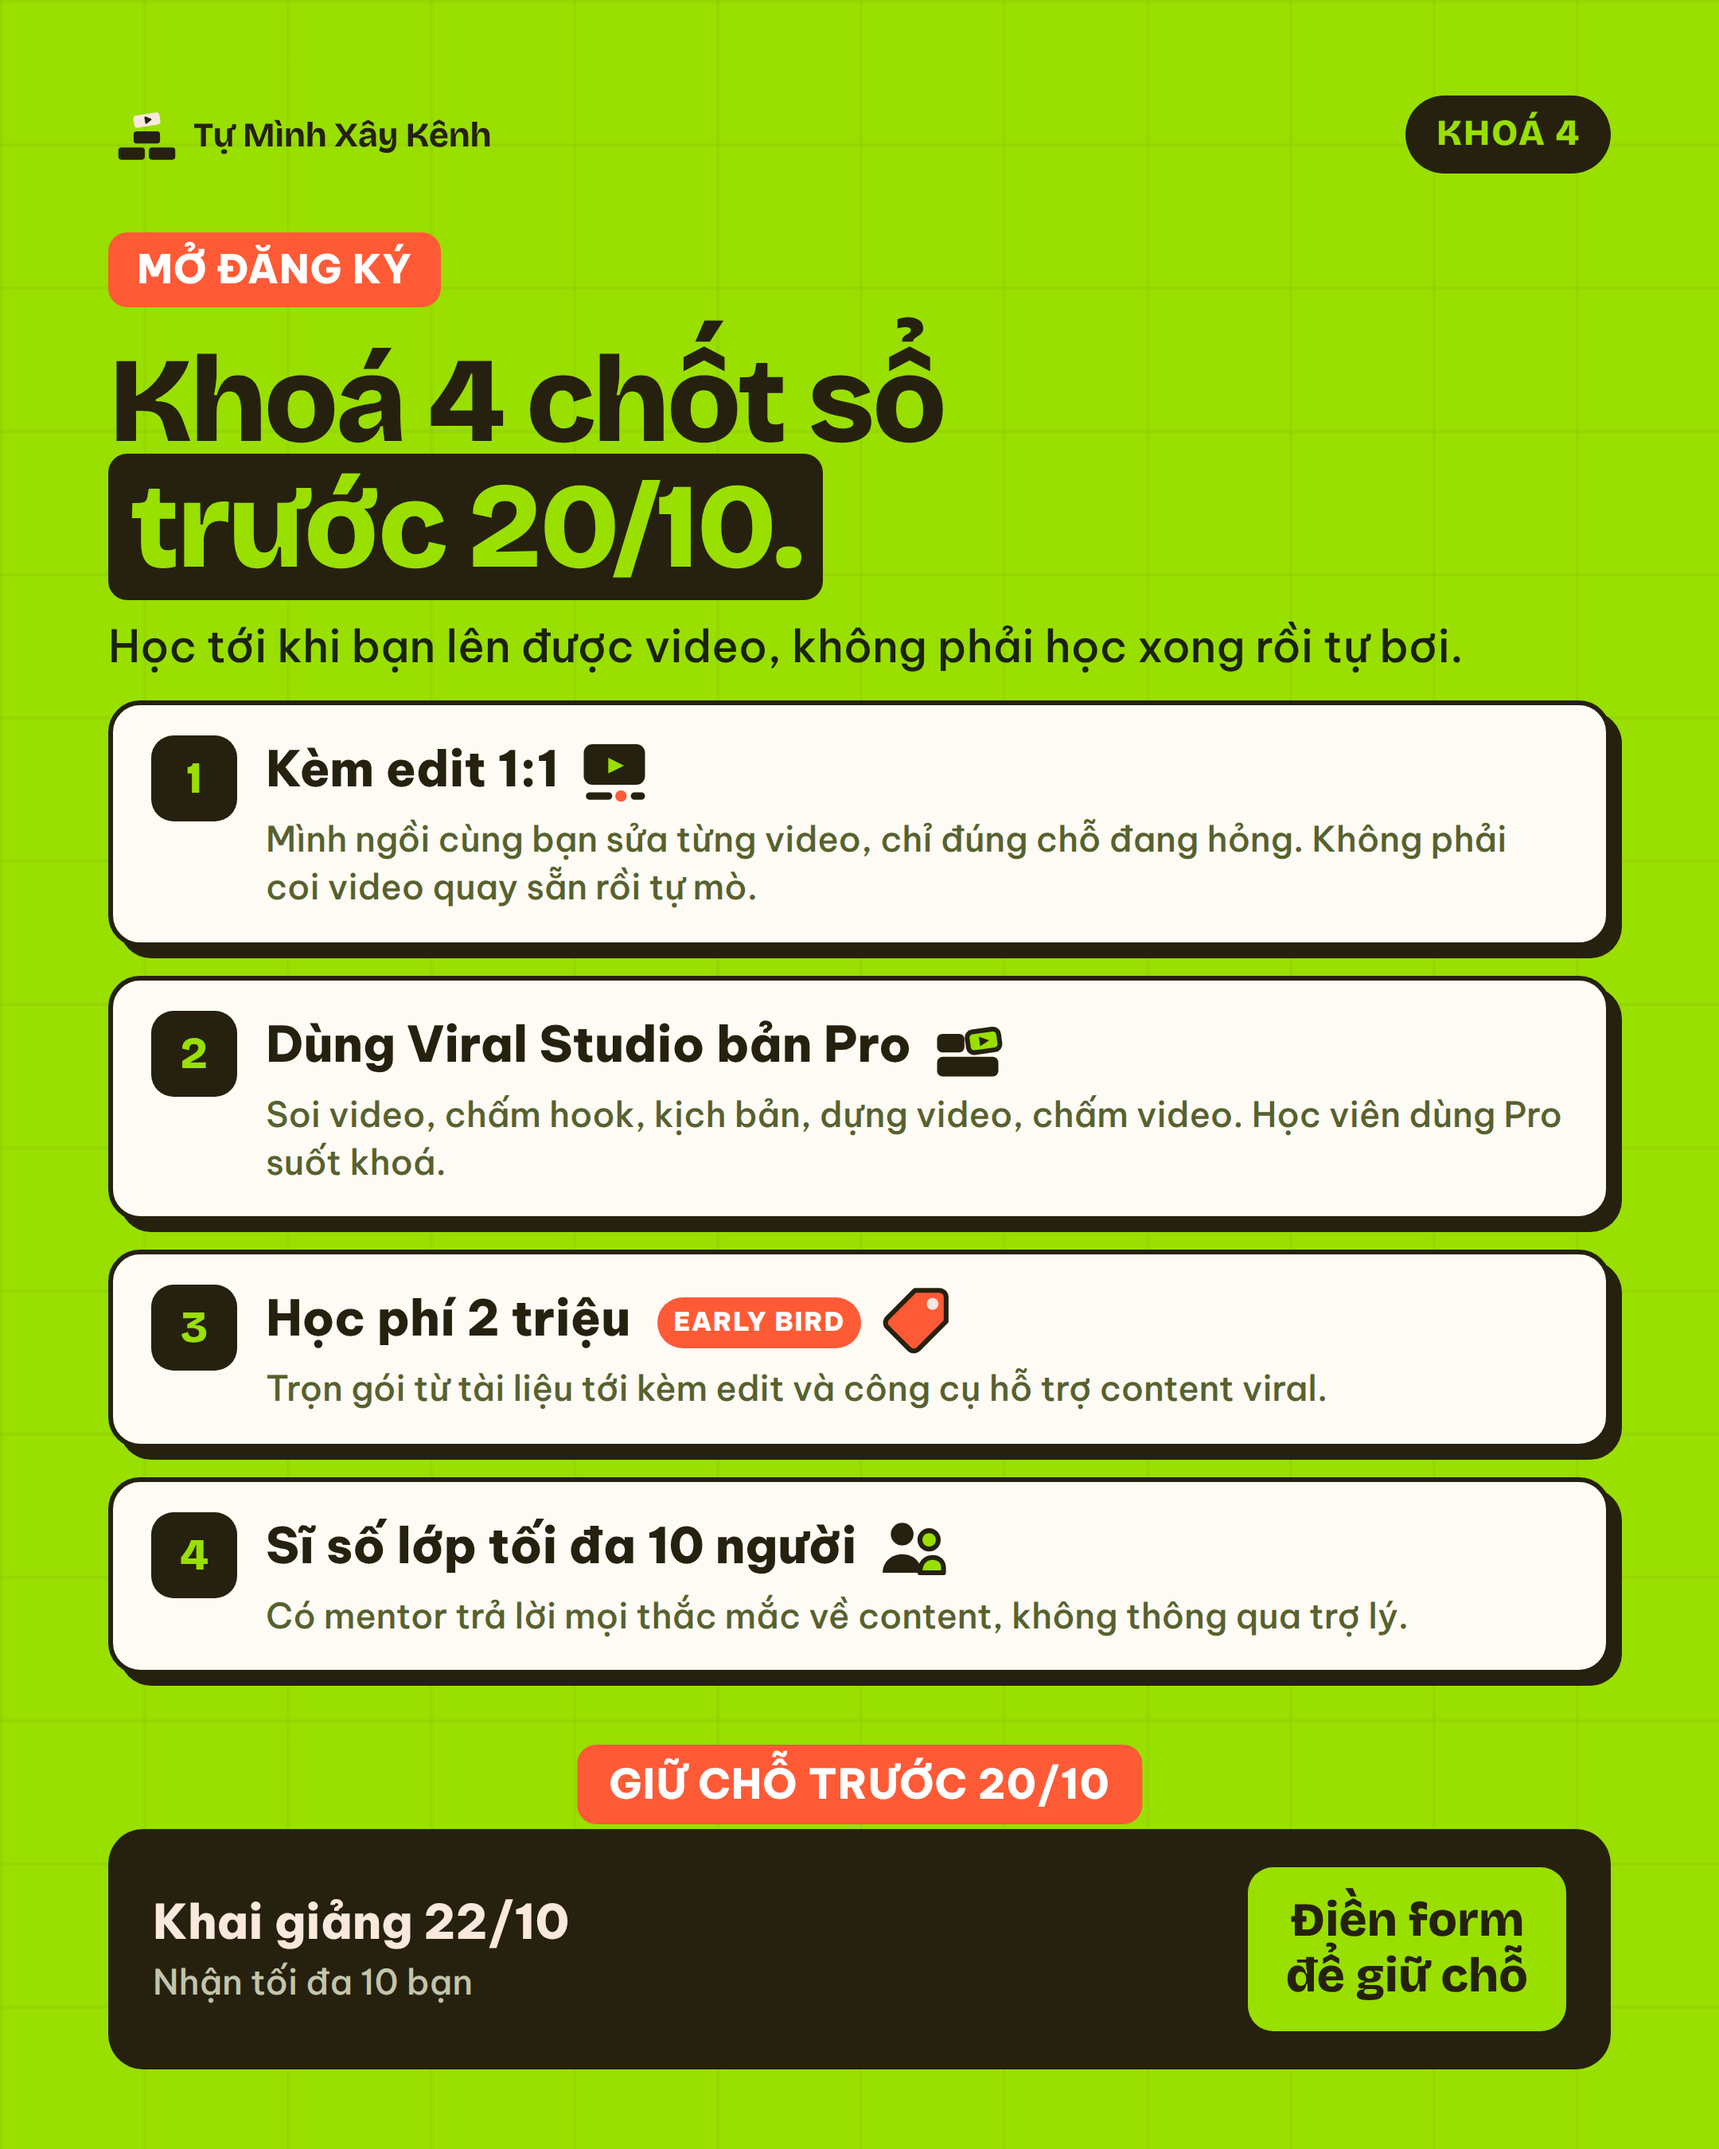
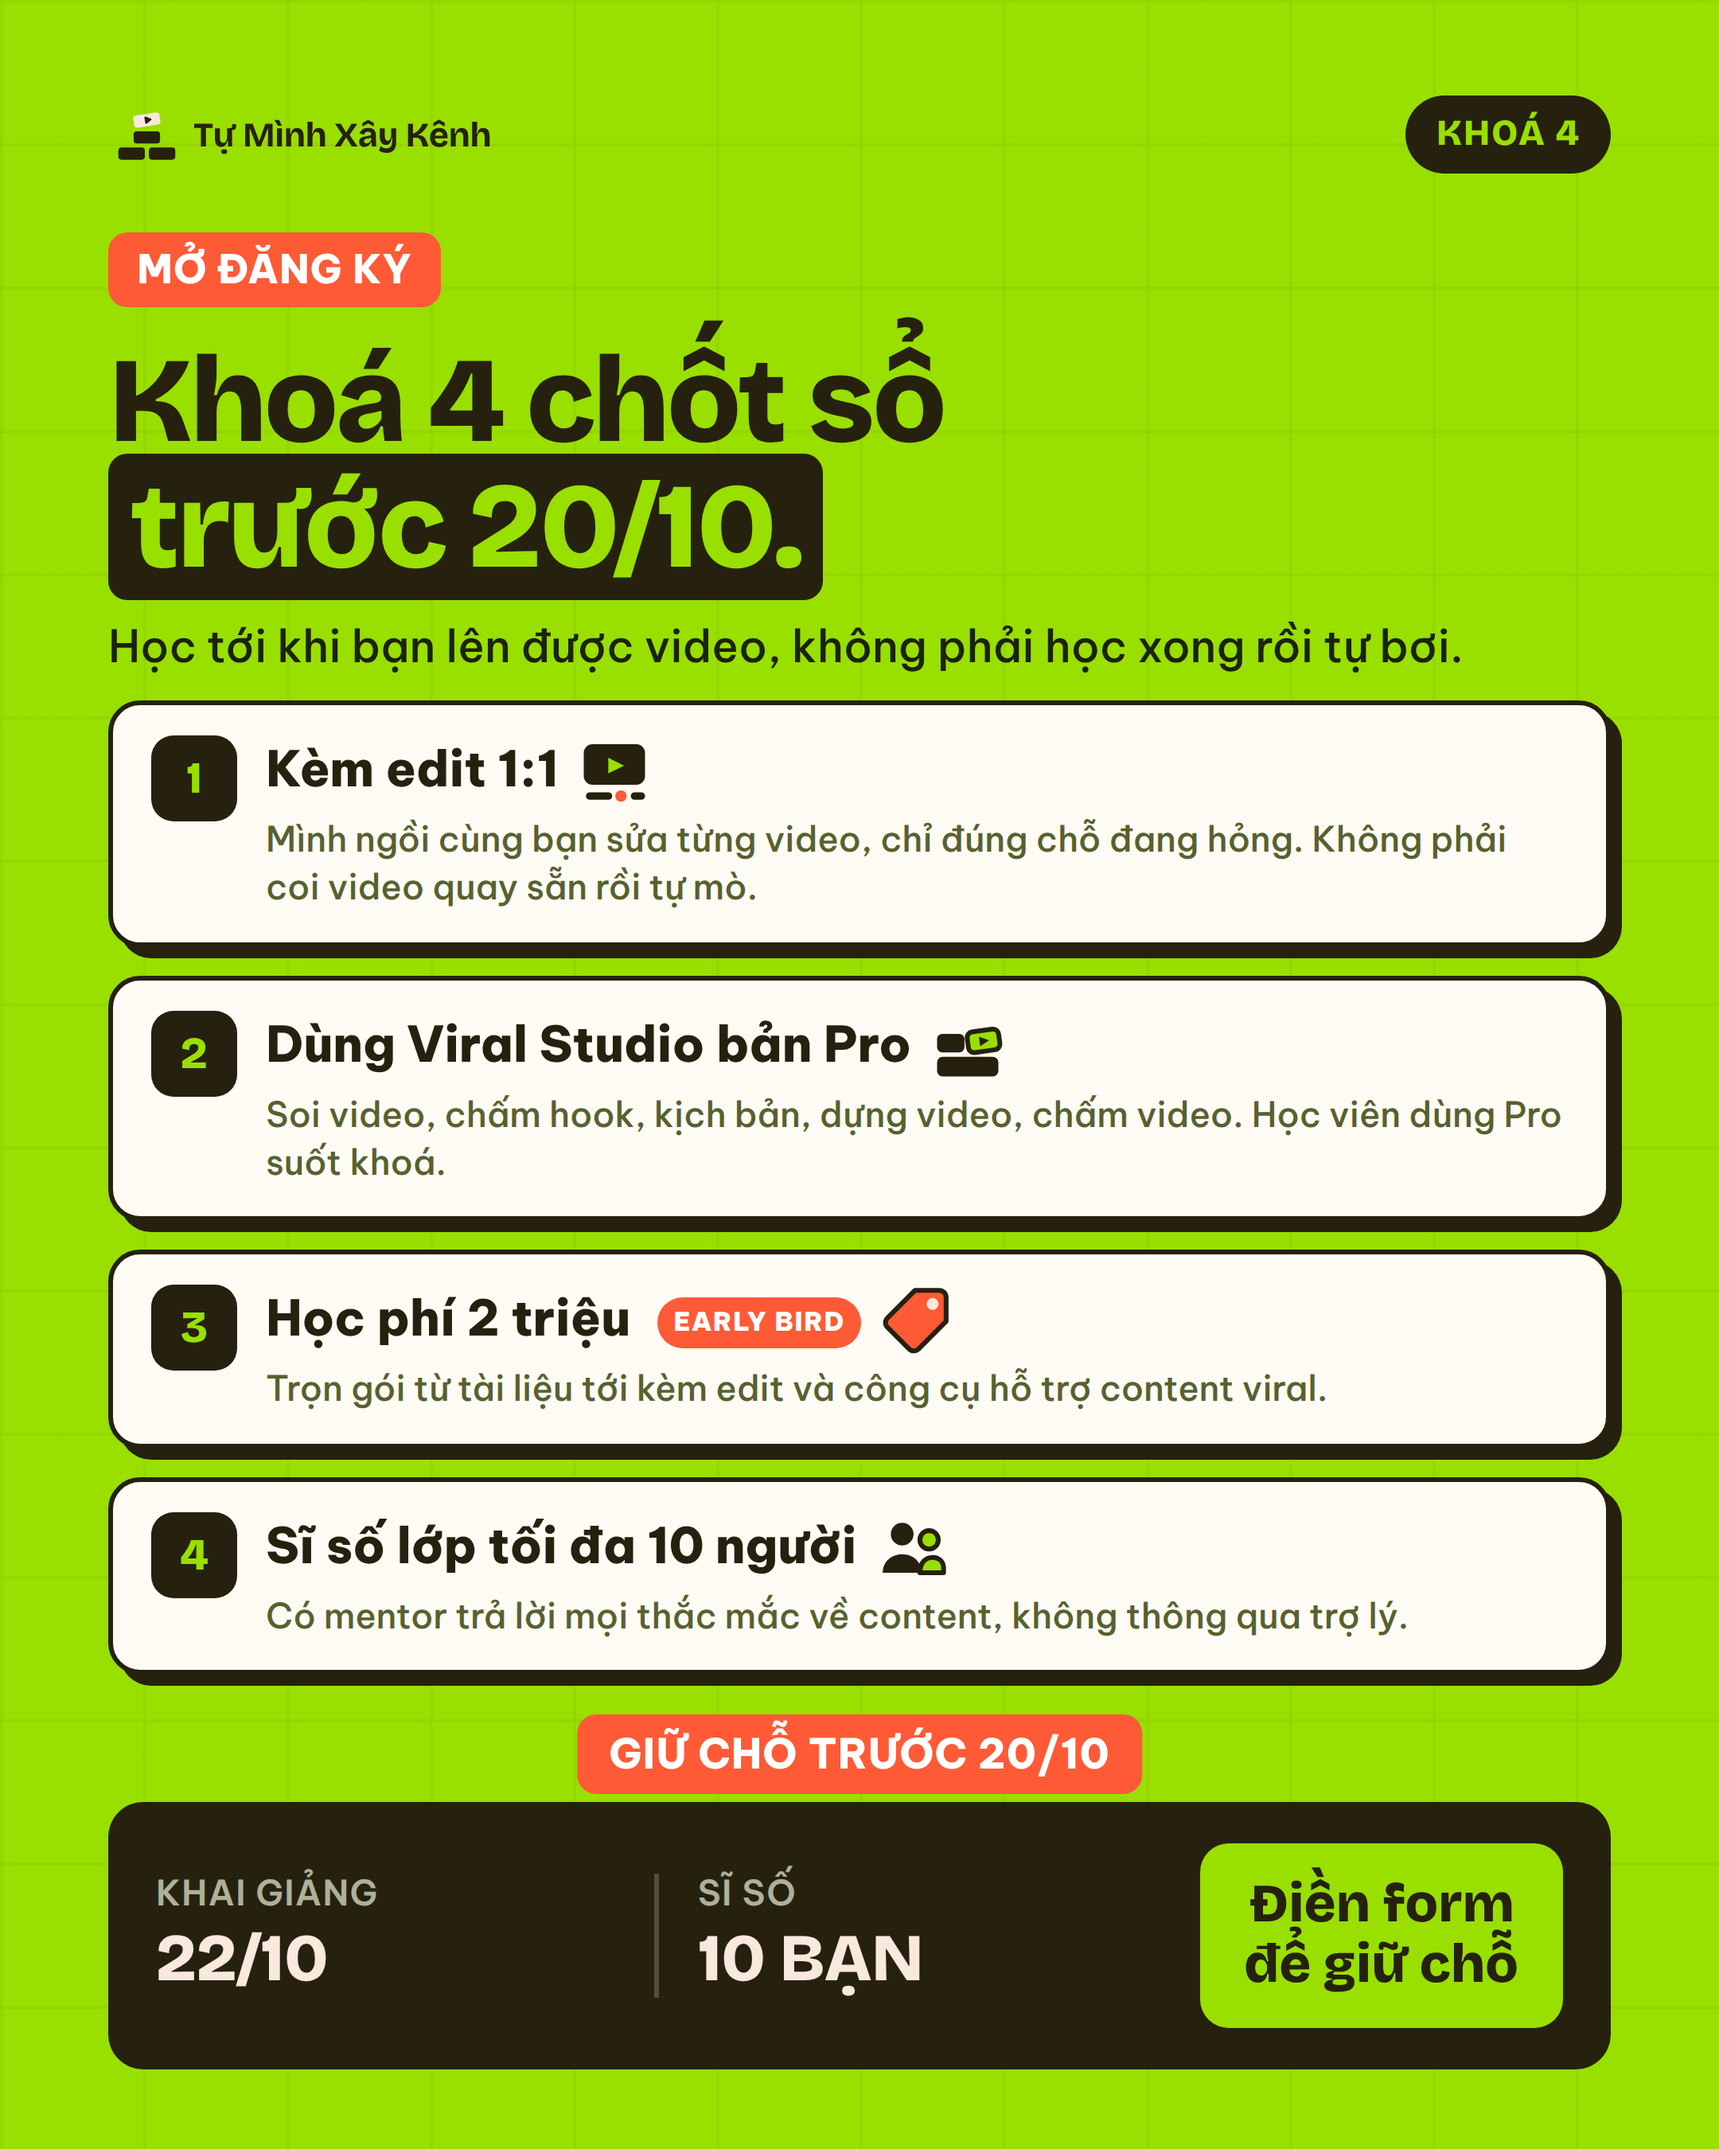
Poster khoá 4: thanh chân chia ba cụm, chữ to lên, chip hạn chót dán lên mép
Thanh chân cũ trống giữa vì chỉ có hai cụm ở hai đầu. Nay tách khai giảng và
sĩ số thành hai cụm có vách ngăn, số ngày đưa lên cỡ 42px, nút lớn hơn. Chip
hạn chót đặt cưỡi lên mép trên thanh như tem dán, hết hở một dải trống.

Claude-Session: https://claude.ai/code/session_01DLoQkHnYKA1ATrTvxbMQPm

Changed region(s): [[0.062, 0.7778, 0.9306, 0.9644]]

diff --git a/poster-fb/poster.html b/poster-fb/poster.html
@@ -282,17 +282,18 @@
     padding:6px 10px;border-radius:999px;margin-left:10px;letter-spacing:.05em;vertical-align:3px}
   .k-list .m strong{display:block;font:800 31px/1.12 var(--font-ui)}
   .k-list .m span{display:block;font:500 22px/1.38 var(--font-ui);color:var(--muted);margin-top:6px}
-  .k-han{position:absolute;left:50%;transform:translateX(-50%);bottom:204px;background:var(--red);
+  .k-han{position:absolute;z-index:3;left:50%;transform:translateX(-50%);bottom:223px;background:var(--red);
     border-radius:12px;padding:12px 20px;white-space:nowrap;text-transform:uppercase;
     font:800 26px/1 var(--font-ui);color:#fff;letter-spacing:.02em}
   .k-chan{position:absolute;left:68px;right:68px;bottom:50px;background:var(--ink);color:var(--paper);
-    border-radius:22px;padding:24px 28px;display:flex;align-items:center;justify-content:space-between;gap:20px}
-  .k-chan .ng{font:800 30px/1.25 var(--font-ui)}
-  .k-chan .ng i{display:block;font-style:normal;font:500 22px/1.3 var(--font-ui);color:#c3c5ab;margin-top:5px}
+    border-radius:22px;padding:26px 30px;display:flex;align-items:center;justify-content:space-between;gap:22px}
+  .k-chan .ng{font:600 22px/1.15 var(--font-ui);color:#aeb199;letter-spacing:.03em;text-transform:uppercase}
+  .k-chan .ng+.ng{padding-left:24px;border-left:3px solid rgba(249,232,221,.22)}
+  .k-chan .ng i{display:block;font-style:normal;font:800 42px/1.08 var(--font-display);color:var(--paper);margin-top:7px;letter-spacing:-.01em}
   .kh.toi .k-chan{background:var(--lime);color:var(--ink)}
   .kh.toi .k-chan .ng i{color:var(--moss)}
-  .k-chan .nut{font:800 30px/1.15 var(--font-display);background:var(--lime);color:var(--ink);
-    padding:17px 24px;border-radius:16px;text-align:center}
+  .k-chan .nut{font:800 34px/1.12 var(--font-display);background:var(--lime);color:var(--ink);
+    padding:20px 28px;border-radius:18px;text-align:center}
   .kh.toi .k-chan .nut{background:var(--ink);color:var(--lime)}
   .tieude.nho h1{font-size:60px}
   .toi .buoc li{color:var(--ink)}
@@ -889,7 +890,8 @@
   </div>
   <div class="k-han">Giữ chỗ trước 20/10</div>
   <div class="k-chan">
-    <div class="ng">Khai giảng 22/10<i>Nhận tối đa 10 bạn</i></div>
+    <div class="ng">Khai giảng<i>22/10</i></div>
+    <div class="ng">Sĩ số<i>10 bạn</i></div>
     <div class="nut">Điền form<br>để giữ chỗ</div>
   </div>
 </section>
